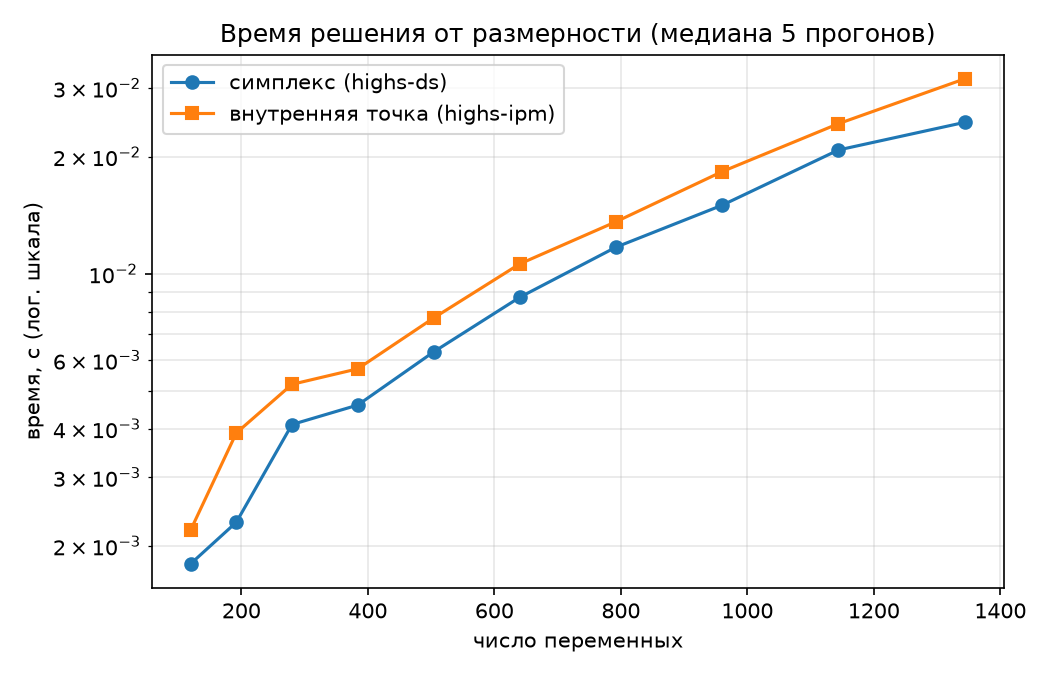
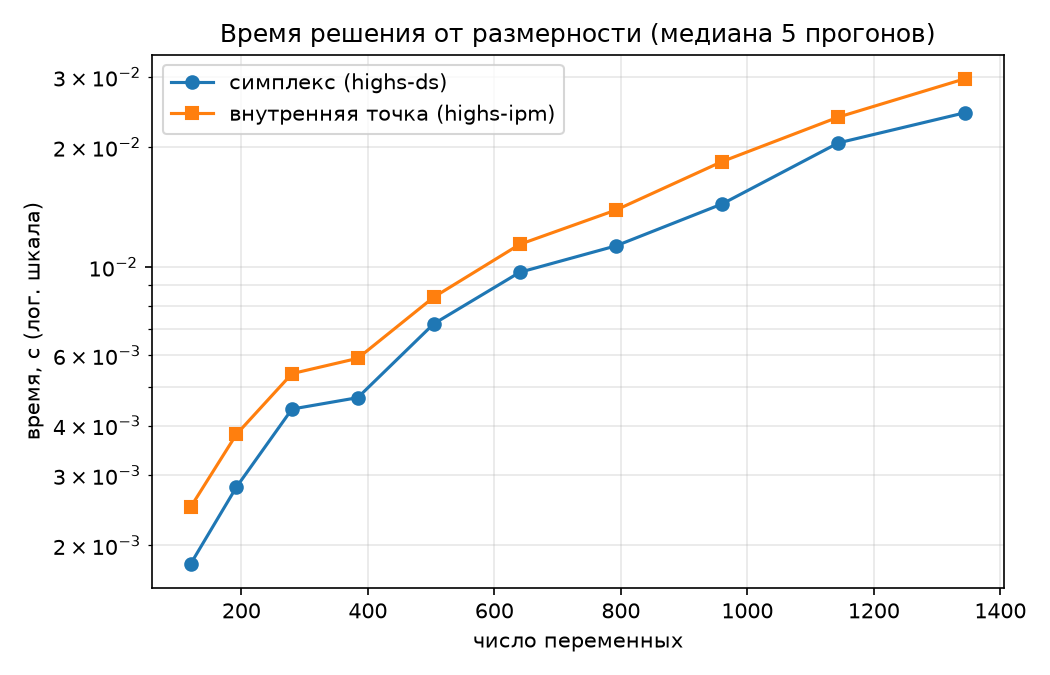
Прогон после правок фазы C: артефакты (verification_summary с фактической разницей, shadow_check одной колонкой), отчёт ссылается на артефакт

diff --git a/REPORT.md b/REPORT.md
@@ -108,7 +108,10 @@ lb ≤ x ≤ ub.
 | темп ≤ | 115 | −9.99 (запас до границы) | да |
 
 Пересчёт цели: Σ c_s·x_{s,t} = **11 619 786.732777 руб.** — совпадает с
-`res.fun` с точностью 3.7e-9 руб. **Все 379 проверок пройдены в допуске 1e-7.**
+`res.fun`: **|пересчёт − солвер| = 3.73e-09 руб.** (зафиксировано в
+`output/verification_summary.txt` вместе со сводкой по типам ограничений).
+**Все 379 проверок пройдены в допуске 1e-7**; каждый допустимый сценарий
+конвейера дополнительно защищён `assert` на независимую проверку.
 Фрагмент таблицы «ограничение → использование/запас» (баланс):
 
 | Ограничение | Использование, МВт·ч | Запас (спрос), МВт·ч | Нарушение |
